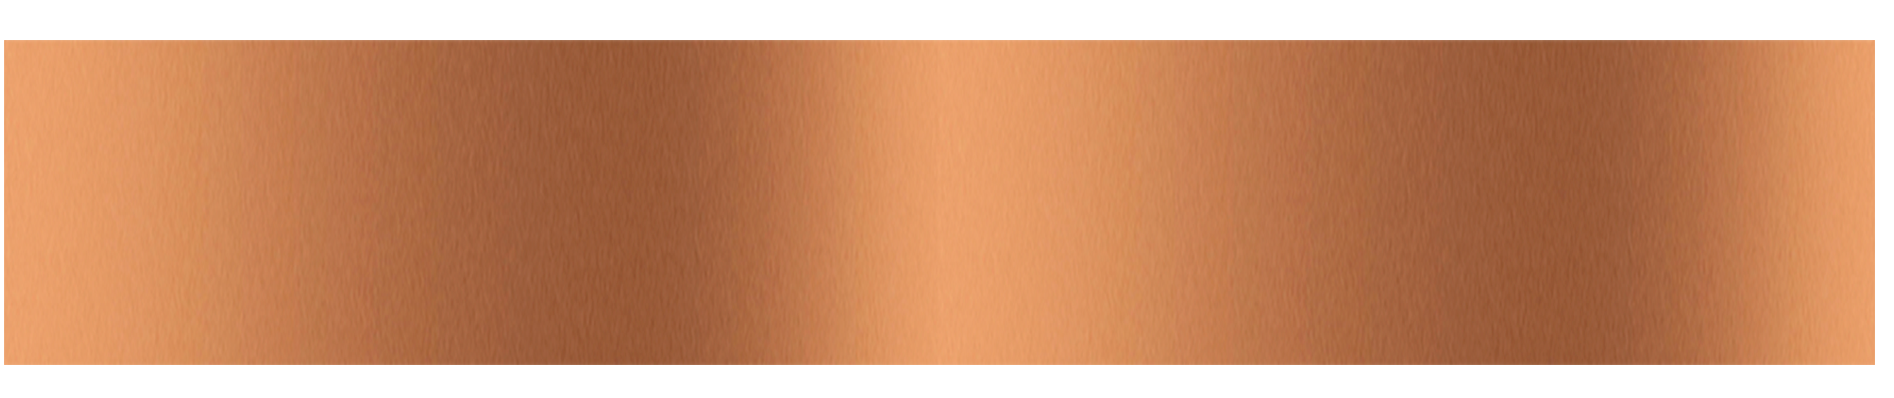
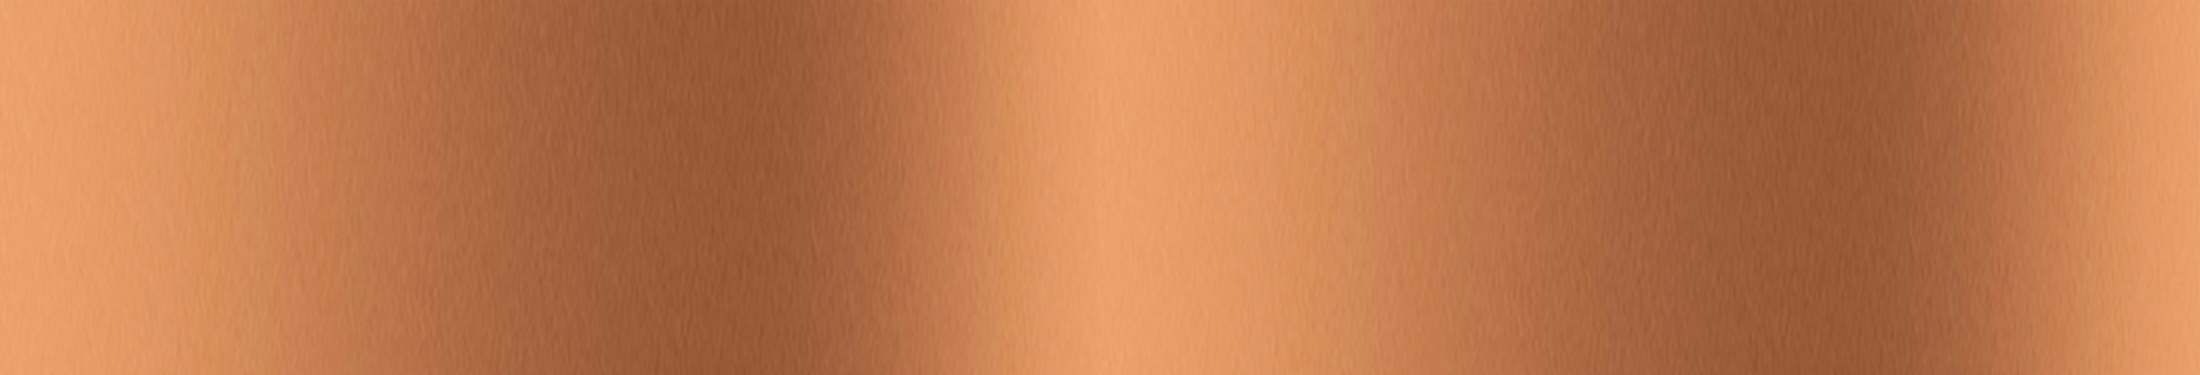
header - fondo se vea en resoluciones grandes

Changed region(s): [[0.0, 0.0, 1.0, 1.0]]

diff --git a/web/webAssets/css/site-extend.css b/web/webAssets/css/site-extend.css
@@ -17,7 +17,7 @@
  * -----------------------------------------------------------------------------
  * 2.0 - Basicos
  * -----------------------------------------------------------------------------
- */body{background-color:#eee;background-color:#f5f5f5;font-family:"Signika",-apple-system,Helvetica Neue,Helvetica,Arial,sans-serif;font-size:16px;font-weight:300;color:#3F3E4C}a{color:#008BFF;font-family:"Signika",-apple-system,Helvetica Neue,Helvetica,Arial,sans-serif;font-size:16px;text-decoration:none}a:active,a:focus,a:hover{color:#006fcc;text-decoration:none}h1,h2,h3,h4,h5,h6{font-family:"Signika",-apple-system,Helvetica Neue,Helvetica,Arial,sans-serif}.ladda-button{background-color:transparent;border-radius:0;padding:0}.btn-primary.ladda-button[disabled],.btn-primary.ladda-button[disabled]:hover,.btn-primary.ladda-button[data-loading],.btn-primary.ladda-button[data-loading]:hover{background-color:#FFF}.btn-info.ladda-button[disabled],.btn-info.ladda-button[disabled]:hover,.btn-info.ladda-button[data-loading],.btn-info.ladda-button[data-loading]:hover{background-color:#00D0F8}.btn-success.ladda-button[disabled],.btn-success.ladda-button[disabled]:hover,.btn-success.ladda-button[data-loading],.btn-success.ladda-button[data-loading]:hover{background-color:#39b54a}.btn-warning.ladda-button[disabled],.btn-warning.ladda-button[disabled]:hover,.btn-warning.ladda-button[data-loading],.btn-warning.ladda-button[data-loading]:hover{background-color:#FFF55B}.btn{display:inline-block;text-align:center;white-space:nowrap;vertical-align:middle;-webkit-user-select:none;-moz-user-select:none;-ms-user-select:none;user-select:none;border:1px solid transparent;padding:.375rem .75rem;line-height:1.5;font-size:1rem;font-weight:400;letter-spacing:1px;border-radius:.25rem;transition:color .15s ease-in-out,background-color .15s ease-in-out,border-color .15s ease-in-out,box-shadow .15s ease-in-out}.btn-primary{border-color:#FFF;background-color:#FFF}.btn-primary:active,.btn-primary:focus,.btn-primary:hover,.btn-primary:active,.btn-primary:active:focus,.btn-primary:active:hover,.btn-primary:disabled,.btn-primary[disabled]:hover,.btn-primary[disabled]:focus,.btn-primary:hover,.btn-primary:focus,.btn-primary:not(:disabled):not(.disabled):active,.btn-primary:not(:disabled):not(.disabled).active{border-color:#e6e6e6;background-color:#e6e6e6;box-shadow:0 0 0 .1rem rgba(255,255,255,0.1)}.btn-secondary{border-color:#000;background-color:#000;color:#FFF}.btn-secondary:active,.btn-secondary:focus,.btn-secondary:hover,.btn-secondary:active,.btn-secondary:active:focus,.btn-secondary:active:hover,.btn-secondary:disabled,.btn-secondary[disabled]:hover,.btn-secondary[disabled]:focus,.btn-secondary:hover,.btn-secondary:focus{border-color:#000;background-color:#000;box-shadow:0 0 0 .1rem rgba(0,0,0,0.1);color:#FFF}.btn-outline-primary{border-color:#DDD;color:#DDD}.btn-outline-primary:active,.btn-outline-primary:focus,.btn-outline-primary:hover,.btn-outline-primary:active,.btn-outline-primary:active:focus,.btn-outline-primary:active:hover,.btn-outline-primary:disabled,.btn-outline-primary[disabled]:hover,.btn-outline-primary[disabled]:focus,.btn-outline-primary:hover,.btn-outline-primary:focus{box-shadow:0 0 0 .1rem rgba(255,255,255,0.1)}.btn-facebook{border-color:#5272B3;background-color:#5272B3}.btn-facebook:active,.btn-facebook:focus,.btn-facebook:hover,.btn-facebook:active,.btn-facebook:active:focus,.btn-facebook:active:hover,.btn-facebook:disabled,.btn-facebook[disabled]:hover,.btn-facebook[disabled]:focus,.btn-facebook:hover,.btn-facebook:focus,.btn-facebook:not(:disabled):not(.disabled):active,.btn-facebook:not(:disabled):not(.disabled).active{border-color:#405b92;background-color:#405b92;box-shadow:none}.btn-warning{border-color:#FFF;background-color:#FFF}.btn-warning:active,.btn-warning:focus,.btn-warning:hover,.btn-warning:active,.btn-warning:active:focus,.btn-warning:active:hover,.btn-warning:disabled,.btn-warning[disabled]:hover,.btn-warning[disabled]:focus,.btn-warning:hover,.btn-warning:focus{border-color:#e6e6e6;background-color:#e6e6e6;box-shadow:0 0 0 .1rem rgba(255,255,255,0.1)}.btn-error{border-color:#FF6C4C;background-color:#FF6C4C}.btn-error:active,.btn-error:focus,.btn-error:hover,.btn-error:active,.btn-error:active:focus,.btn-error:active:hover,.btn-error:disabled,.btn-error[disabled]:hover,.btn-error[disabled]:focus,.btn-error:hover,.btn-error:focus{border-color:#ff4219;background-color:#ff4219;box-shadow:0 0 0 .1rem rgba(255,108,76,0.1)}.btn-success{border-color:#39b54a;background-color:#39b54a}.btn-success:active,.btn-success:focus,.btn-success:hover,.btn-success:active,.btn-success:active:focus,.btn-success:active:hover,.btn-success:disabled,.btn-success[disabled]:hover,.btn-success[disabled]:focus,.btn-success:hover,.btn-success:focus{border-color:#2d8e3a;background-color:#2d8e3a;box-shadow:0 0 0 .1rem rgba(57,181,74,0.1)}.btn-info{border-color:#00D0F8;background-color:#00D0F8}.btn-info:active,.btn-info:focus,.btn-info:hover,.btn-info:active,.btn-info:active:focus,.btn-info:active:hover,.btn-info:disabled,.btn-info[disabled]:hover,.btn-info[disabled]:focus,.btn-info:hover,.btn-info:focus{border-color:#00a5c5;background-color:#00a5c5;box-shadow:0 0 0 .1rem rgba(0,208,248,0.1)}.btn-outline-default{background-color:transparent;border-color:#3F3E4C;color:#3F3E4C}.btn-outline-default:active,.btn-outline-default:focus,.btn-outline-default:hover,.btn-outline-default:active,.btn-outline-default:active:focus,.btn-outline-default:active:hover,.btn-outline-default:disabled,.btn-outline-default[disabled]:hover,.btn-outline-default[disabled]:focus,.btn-outline-default:hover,.btn-outline-default:focus{border-color:#282730;color:#282730;box-shadow:none}.page-login-v3 form .form-material label{color:#88869d}.form-material .form-control:-webkit-autofill ~ .floating-label{top:-1.3rem}.form-material .form-control ~ .floating-label{padding:0 10px}.form-material .form-control.focus ~ .floating-label,.form-material .form-control:focus ~ .floating-label{color:#FFF;top:-1.3rem}.form-material.form-group.has-danger .form-control.focus ~ .floating-label,.form-material.form-group.has-danger .form-control:focus ~ .floating-label,.form-material.form-group.has-danger .form-control:not(.empty) ~ .floating-label{color:#FF6C4C;top:-1.3rem}.form-material.form-group.has-success .form-control.focus ~ .floating-label,.form-material.form-group.has-success .form-control:focus ~ .floating-label,.form-material.form-group.has-success .form-control:not(.empty) ~ .floating-label{color:#FFF;top:-1.3rem}.form-material .form-control,.form-material .form-control.focus,.form-material .form-control:focus{background-image:linear-gradient(primary, primary),linear-gradient(#FE9093, #FE9093)}.form-material.form-group.has-success .form-control.focus,.form-material.form-group.has-success .form-control:focus,.form-material.form-group.has-success .form-control:not(.empty){background-image:linear-gradient(primary, primary),linear-gradient(#FE9093, #FE9093)}.form-control{color:#7a7891}.page-login-v3:before{background-image:url("../images/bkgd.jpg");background-position:50%;background-repeat:no-repeat;background-size:cover}.login .brand .brand-img{height:100px;margin-bottom:20px}.login form .form-group .help-block.help-block-error{color:#FF6C4C;font-size:.9rem;text-align:left}.navbar-inverse{background-color:#FFF}.navbar-inverse .navbar-collapse,.navbar-inverse .navbar-form{border-color:#FFF}.site-footer .site-footer-legal img{height:30px}.site-footer .site-footer-right img{height:30px}.page-copyright .social a img{height:30px}.usuarios-create .user-file{cursor:pointer;display:block;height:200px;margin:0 auto;max-width:80%;width:200px}.usuarios-actualizar .user-file{cursor:pointer;display:block;height:200px;margin:0 auto;max-width:80%;width:200px}.loader-overlay{background-color:#FFF;background-image:url(../images/logo-latingal-boutique.png);background-position:50%;background-repeat:no-repeat;background-size:100px}.animsition-loading{background-color:#999;border-left:5px solid #FFF}.modal-backdrop{background-color:rgba(255,0,0,0.2);position:absolute;z-index:9906}.modal{position:fixed;z-index:9999}.modal .modal-dialog .modal-header button.close{position:absolute;right:24px;top:16px}.summary{color:#3F3E4C;display:flex;font-size:.95rem;font-weight:300;justify-content:flex-end;margin-bottom:8px;padding:4px 8px}.summary b{color:#FFF;font-weight:400;margin:0 8px}.pagination{display:flex;justify-content:flex-end}.pagination li{display:flex}.pagination li a,.pagination li span,.pagination li .page-link{align-items:center;background-color:transparent;border:1px solid rgba(255,255,255,0.4);display:flex;font-weight:400;justify-content:center;margin:0 2px;padding:4px 2px;color:#FFF;text-decoration:none;width:40px}.pagination li a:hover,.pagination li span:hover,.pagination li .page-link:hover{background-color:rgba(255,255,255,0.16);border-color:rgba(255,255,255,0.16);color:#FFF}.pagination li.prev a,.pagination li.next a{color:#FFF}.pagination li.disabled span{background-color:rgba(255,255,255,0.16);border-color:rgba(255,255,255,0.16);color:rgba(255,255,255,0.4)}.pagination li.active a{background-color:#FFF;border-color:#FFF;color:#FFF}.pagination li.active a:hover{background-color:rgba(255,255,255,0.25);border-color:rgba(255,255,255,0.65);color:#FFF}.latin-message{background-color:rgba(255,255,255,0.9);bottom:0;display:none;height:100vh;left:0;position:fixed;right:0;top:0;width:100%;z-index:9999}.latin-message .latin-message-cont{align-items:center;display:flex;flex-direction:column;height:100%;justify-content:center;width:100%}.latin-message .latin-message-cont h3{display:block;color:#FFF;text-align:center;width:100%}.latin-message .latin-message-cont img{max-width:90%;width:80px}.tooltip.bs-tether-element-attached-bottom .tooltip-inner,.tooltip.tooltip-top .tooltip-inner{background-color:#e6e6e6}.tooltip.bs-tether-element-attached-bottom .tooltip-inner::before,.tooltip.tooltip-top .tooltip-inner::before{border-top-color:#e6e6e6}.tooltip.tooltip-2.tooltip-primary{display:block !important}.tooltip.tooltip-2.tooltip-primary .arrow{background-color:#e6e6e6}.tooltip.tooltip-2.tooltip-primary .tooltip-inner{background-color:#e6e6e6}.tooltip.tooltip-2.tooltip-primary .tooltip-inner:before{border-top-color:#e6e6e6}.tooltip.tooltip-2.tooltip-success{display:block !important}.tooltip.tooltip-2.tooltip-success .arrow{background-color:#2d8e3a}.tooltip.tooltip-2.tooltip-success .tooltip-inner{background-color:#2d8e3a}.tooltip.tooltip-2.tooltip-success .tooltip-inner:before{border-top-color:#2d8e3a}.tooltip.tooltip-2.tooltip-danger{display:block !important}.tooltip.tooltip-2.tooltip-danger .arrow{background-color:#ff4219}.tooltip.tooltip-2.tooltip-danger .tooltip-inner{background-color:#ff4219}.tooltip.tooltip-2.tooltip-danger .tooltip-inner:before{border-top-color:#ff4219}.tooltip.tooltip-2.tooltip-info{display:block !important}.tooltip.tooltip-2.tooltip-info .arrow{background-color:#00a5c5}.tooltip.tooltip-2.tooltip-info .tooltip-inner{background-color:#00a5c5}.tooltip.tooltip-2.tooltip-info .tooltip-inner:before{border-top-color:#00a5c5}.tooltip.tooltip-2.tooltip-warning{display:block !important}.tooltip.tooltip-2.tooltip-warning .arrow{background-color:#fff228}.tooltip.tooltip-2.tooltip-warning .tooltip-inner{background-color:#fff228}.tooltip.tooltip-2.tooltip-warning .tooltip-inner:before{border-top-color:#fff228}.progress .progress-bar{background-color:#FE9093}.fc .fc-button-group .fc-prev-button.fc-button,.fc .fc-button-group .fc-next-button.fc-button{border-radius:0;padding:0}.fc .fc-button-group .fc-prev-button.fc-button span.fc-icon,.fc .fc-button-group .fc-next-button.fc-button span.fc-icon{height:32px;line-height:32px;top:0;width:32px}.fc .fc-button-group .fc-prev-button.fc-button span.fc-icon::after,.fc .fc-button-group .fc-next-button.fc-button span.fc-icon::after{font-family:"Web Icons";font-size:24px;font-weight:normal;text-shadow:none;text-rendering:auto;top:0;-moz-osx-font-smoothing:grayscale}.fc .fc-button-group .fc-prev-button.fc-button:hover,.fc .fc-button-group .fc-prev-button.fc-button:focus,.fc .fc-button-group .fc-next-button.fc-button:hover,.fc .fc-button-group .fc-next-button.fc-button:focus{background-color:#FFF;color:#FFF}.fc .fc-button-group .fc-prev-button.fc-button{border-top-left-radius:4px;border-bottom-left-radius:4px}.fc .fc-button-group .fc-prev-button.fc-button span.fc-icon::after{content:""}.fc .fc-button-group .fc-next-button.fc-button{border-top-right-radius:4px;border-bottom-right-radius:4px}.fc .fc-button-group .fc-next-button.fc-button span.fc-icon::after{content:""}.fc .fc-toolbar h2{color:#FFF;font-size:2.5rem !important;font-weight:300 !important}.fc-unthemed .fc-today{background-color:rgba(255,255,255,0.12) !important}.fc td.fc-widget-header{background-color:#FE9093;padding-bottom:0 !important;padding-top:0 !important}.fc td.fc-widget-header .fc-row table thead tr th span{color:#FFF;font-family:"Signika",-apple-system,Helvetica Neue,Helvetica,Arial,sans-serif;font-size:1.25rem !important;font-weight:300 !important}.fc-time-grid-container .fc-time-grid .fc-slats table tbody tr td.fc-axis{padding:4px 4px}.fc-time-grid-container .fc-time-grid .fc-slats table tbody tr td.fc-axis span{color:#FFF}.fc-unthemed .fc-day-header.fc-widget-header,.fc-unthemed .fc-today{padding:16px 4px !important}.fc-event .fc-bg{background:transparent;background-color:transparent;opacity:.025 !important}.fc-time-grid-event.fc-v-event.fc-event{border-color:transparent}.datepicker.datepicker-dropdown.dropdown-menu,.datepicker.datepicker-dropdown.dropdown-menu,.datepicker-orient-left.datepicker-orient-top{z-index:1951 !important}.clockpicker-popover,.popover.clockpicker-popover{z-index:1952 !important}.clockpicker-popover .popover-title .text-primary,.popover.clockpicker-popover .popover-title .text-primary{color:#FFF !important}.clockpicker-popover .popover-content .clockpicker-tick.active,.popover.clockpicker-popover .popover-content .clockpicker-tick.active{background-color:rgba(254,144,147,0.7) !important;color:#FFF !important}.clockpicker-popover .popover-content .clockpicker-tick:hover,.popover.clockpicker-popover .popover-content .clockpicker-tick:hover{background-color:rgba(255,255,255,0.3) !important}.clockpicker-popover .popover-content .clockpicker-canvas line,.popover.clockpicker-popover .popover-content .clockpicker-canvas line{stroke:#FFF !important}.clockpicker-popover .popover-content .clockpicker-canvas-bearing,.clockpicker-popover .popover-content .clockpicker-canvas-fg,.popover.clockpicker-popover .popover-content .clockpicker-canvas-bearing,.popover.clockpicker-popover .popover-content .clockpicker-canvas-fg{fill:#FFF !important}.datepicker table tr td.active:active,.datepicker table tr td.active.highlighted:active,.datepicker table tr td.active.active,.datepicker table tr td.active.highlighted.active{background-color:#FE9093 !important;border-color:#FE9093 !important}.datepicker table tr td span.active:active,.datepicker table tr td span.active:hover:active,.datepicker table tr td span.active.disabled:active,.datepicker table tr td span.active.disabled:hover:active,.datepicker table tr td span.active.active,.datepicker table tr td span.active:hover.active,.datepicker table tr td span.active.disabled.active,.datepicker table tr td span.active.disabled:hover.active{background-color:#FE9093 !important;border-color:#FE9093 !important}.datepicker table tr td.old,.datepicker table tr td.new{background-color:#EEE;border-radius:0}.fc-time-grid-container,.fc-time-grid{height:auto !important;overflow:auto !important}.select2.select2-container:active,.select2.select2-container:hover,.select2.select2-container:focus{outline:none}.select2-container--krajee .select2-selection{border-color:#EEE !important;box-shadow:none !important}.select2-container--krajee.select2-container--open .select2-selection,.select2-container--krajee.select2-container--open .select2-selection:focus{border-color:#AAA !important;box-shadow:none !important}.select2-container--krajee .select2-selection--single .select2-selection__arrow{border-left-color:#EEE !important}.select2-container--krajee .select2-dropdown{border-color:#AAA !important}.select2-dropdown{background-color:#EEE !important;border-color:purple !important}.select2-container--krajee .select2-search--dropdown .select2-search__field{background-color:#FFF !important;background-position:right 10px top 10px;padding:4px 8px}.select2-container--krajee .select2-results__option[aria-selected]{background-color:#FFF !important;color:#3F3E4C !important;margin-left:0 !important}.select2-container--krajee .select2-results__option b{margin-left:0 !important}.select2-container--krajee .select2-results__option--highlighted[aria-selected]{background-color:#FE9093 !important;color:#FFF !important}.select2-container--krajee li.select2-results__option{background-color:#AAA !important;color:#FFF !important}.select2-container--krajee .select2-selection--single .select2-selection__clear{right:26px !important;top:.1rem !important}.select2-container--krajee .select2-selection--single{padding:6px 40px 6px 6px !important}.checkbox-custom label::before{background-color:#BBB;border-color:#BBB}.checkbox-primary input[type="radio"]:checked+input[type="hidden"]+label::before,.checkbox-primary input[type="radio"]:checked+label::before,.checkbox-primary input[type="checkbox"]:checked+input[type="hidden"]+label::before,.checkbox-primary input[type="checkbox"]:checked+label::before{background-color:#FE9093;border-color:#FE9093}.duracell-page{padding:0 !important}.duracell-page .page{background-color:#000}.duracell-page .page .page-content{padding:0 !important}.nav-duracell{align-items:center;background-color:#000;background-image:url(../images/tira.png);background-position:50%;background-repeat:no-repeat;background-size:inherit;display:flex;padding:0 32px;width:100%}.nav-duracell.nav-left{height:90px;justify-content:flex-start}.nav-duracell.nav-right{height:90px;justify-content:flex-end}.nav-duracell h1{margin:0}.nav-duracell h1 img{height:40px}/*!
+ */body{background-color:#eee;background-color:#f5f5f5;font-family:"Signika",-apple-system,Helvetica Neue,Helvetica,Arial,sans-serif;font-size:16px;font-weight:300;color:#3F3E4C}a{color:#008BFF;font-family:"Signika",-apple-system,Helvetica Neue,Helvetica,Arial,sans-serif;font-size:16px;text-decoration:none}a:active,a:focus,a:hover{color:#006fcc;text-decoration:none}h1,h2,h3,h4,h5,h6{font-family:"Signika",-apple-system,Helvetica Neue,Helvetica,Arial,sans-serif}.ladda-button{background-color:transparent;border-radius:0;padding:0}.btn-primary.ladda-button[disabled],.btn-primary.ladda-button[disabled]:hover,.btn-primary.ladda-button[data-loading],.btn-primary.ladda-button[data-loading]:hover{background-color:#FFF}.btn-info.ladda-button[disabled],.btn-info.ladda-button[disabled]:hover,.btn-info.ladda-button[data-loading],.btn-info.ladda-button[data-loading]:hover{background-color:#00D0F8}.btn-success.ladda-button[disabled],.btn-success.ladda-button[disabled]:hover,.btn-success.ladda-button[data-loading],.btn-success.ladda-button[data-loading]:hover{background-color:#39b54a}.btn-warning.ladda-button[disabled],.btn-warning.ladda-button[disabled]:hover,.btn-warning.ladda-button[data-loading],.btn-warning.ladda-button[data-loading]:hover{background-color:#FFF55B}.btn{display:inline-block;text-align:center;white-space:nowrap;vertical-align:middle;-webkit-user-select:none;-moz-user-select:none;-ms-user-select:none;user-select:none;border:1px solid transparent;padding:.375rem .75rem;line-height:1.5;font-size:1rem;font-weight:400;letter-spacing:1px;border-radius:.25rem;transition:color .15s ease-in-out,background-color .15s ease-in-out,border-color .15s ease-in-out,box-shadow .15s ease-in-out}.btn-primary{border-color:#FFF;background-color:#FFF}.btn-primary:active,.btn-primary:focus,.btn-primary:hover,.btn-primary:active,.btn-primary:active:focus,.btn-primary:active:hover,.btn-primary:disabled,.btn-primary[disabled]:hover,.btn-primary[disabled]:focus,.btn-primary:hover,.btn-primary:focus,.btn-primary:not(:disabled):not(.disabled):active,.btn-primary:not(:disabled):not(.disabled).active{border-color:#e6e6e6;background-color:#e6e6e6;box-shadow:0 0 0 .1rem rgba(255,255,255,0.1)}.btn-secondary{border-color:#000;background-color:#000;color:#FFF}.btn-secondary:active,.btn-secondary:focus,.btn-secondary:hover,.btn-secondary:active,.btn-secondary:active:focus,.btn-secondary:active:hover,.btn-secondary:disabled,.btn-secondary[disabled]:hover,.btn-secondary[disabled]:focus,.btn-secondary:hover,.btn-secondary:focus{border-color:#000;background-color:#000;box-shadow:0 0 0 .1rem rgba(0,0,0,0.1);color:#FFF}.btn-outline-primary{border-color:#DDD;color:#DDD}.btn-outline-primary:active,.btn-outline-primary:focus,.btn-outline-primary:hover,.btn-outline-primary:active,.btn-outline-primary:active:focus,.btn-outline-primary:active:hover,.btn-outline-primary:disabled,.btn-outline-primary[disabled]:hover,.btn-outline-primary[disabled]:focus,.btn-outline-primary:hover,.btn-outline-primary:focus{box-shadow:0 0 0 .1rem rgba(255,255,255,0.1)}.btn-facebook{border-color:#5272B3;background-color:#5272B3}.btn-facebook:active,.btn-facebook:focus,.btn-facebook:hover,.btn-facebook:active,.btn-facebook:active:focus,.btn-facebook:active:hover,.btn-facebook:disabled,.btn-facebook[disabled]:hover,.btn-facebook[disabled]:focus,.btn-facebook:hover,.btn-facebook:focus,.btn-facebook:not(:disabled):not(.disabled):active,.btn-facebook:not(:disabled):not(.disabled).active{border-color:#405b92;background-color:#405b92;box-shadow:none}.btn-warning{border-color:#FFF;background-color:#FFF}.btn-warning:active,.btn-warning:focus,.btn-warning:hover,.btn-warning:active,.btn-warning:active:focus,.btn-warning:active:hover,.btn-warning:disabled,.btn-warning[disabled]:hover,.btn-warning[disabled]:focus,.btn-warning:hover,.btn-warning:focus{border-color:#e6e6e6;background-color:#e6e6e6;box-shadow:0 0 0 .1rem rgba(255,255,255,0.1)}.btn-error{border-color:#FF6C4C;background-color:#FF6C4C}.btn-error:active,.btn-error:focus,.btn-error:hover,.btn-error:active,.btn-error:active:focus,.btn-error:active:hover,.btn-error:disabled,.btn-error[disabled]:hover,.btn-error[disabled]:focus,.btn-error:hover,.btn-error:focus{border-color:#ff4219;background-color:#ff4219;box-shadow:0 0 0 .1rem rgba(255,108,76,0.1)}.btn-success{border-color:#39b54a;background-color:#39b54a}.btn-success:active,.btn-success:focus,.btn-success:hover,.btn-success:active,.btn-success:active:focus,.btn-success:active:hover,.btn-success:disabled,.btn-success[disabled]:hover,.btn-success[disabled]:focus,.btn-success:hover,.btn-success:focus{border-color:#2d8e3a;background-color:#2d8e3a;box-shadow:0 0 0 .1rem rgba(57,181,74,0.1)}.btn-info{border-color:#00D0F8;background-color:#00D0F8}.btn-info:active,.btn-info:focus,.btn-info:hover,.btn-info:active,.btn-info:active:focus,.btn-info:active:hover,.btn-info:disabled,.btn-info[disabled]:hover,.btn-info[disabled]:focus,.btn-info:hover,.btn-info:focus{border-color:#00a5c5;background-color:#00a5c5;box-shadow:0 0 0 .1rem rgba(0,208,248,0.1)}.btn-outline-default{background-color:transparent;border-color:#3F3E4C;color:#3F3E4C}.btn-outline-default:active,.btn-outline-default:focus,.btn-outline-default:hover,.btn-outline-default:active,.btn-outline-default:active:focus,.btn-outline-default:active:hover,.btn-outline-default:disabled,.btn-outline-default[disabled]:hover,.btn-outline-default[disabled]:focus,.btn-outline-default:hover,.btn-outline-default:focus{border-color:#282730;color:#282730;box-shadow:none}.page-login-v3 form .form-material label{color:#88869d}.form-material .form-control:-webkit-autofill ~ .floating-label{top:-1.3rem}.form-material .form-control ~ .floating-label{padding:0 10px}.form-material .form-control.focus ~ .floating-label,.form-material .form-control:focus ~ .floating-label{color:#FFF;top:-1.3rem}.form-material.form-group.has-danger .form-control.focus ~ .floating-label,.form-material.form-group.has-danger .form-control:focus ~ .floating-label,.form-material.form-group.has-danger .form-control:not(.empty) ~ .floating-label{color:#FF6C4C;top:-1.3rem}.form-material.form-group.has-success .form-control.focus ~ .floating-label,.form-material.form-group.has-success .form-control:focus ~ .floating-label,.form-material.form-group.has-success .form-control:not(.empty) ~ .floating-label{color:#FFF;top:-1.3rem}.form-material .form-control,.form-material .form-control.focus,.form-material .form-control:focus{background-image:linear-gradient(primary, primary),linear-gradient(#FE9093, #FE9093)}.form-material.form-group.has-success .form-control.focus,.form-material.form-group.has-success .form-control:focus,.form-material.form-group.has-success .form-control:not(.empty){background-image:linear-gradient(primary, primary),linear-gradient(#FE9093, #FE9093)}.form-control{color:#7a7891}.page-login-v3:before{background-image:url("../images/bkgd.jpg");background-position:50%;background-repeat:no-repeat;background-size:cover}.login .brand .brand-img{height:100px;margin-bottom:20px}.login form .form-group .help-block.help-block-error{color:#FF6C4C;font-size:.9rem;text-align:left}.navbar-inverse{background-color:#FFF}.navbar-inverse .navbar-collapse,.navbar-inverse .navbar-form{border-color:#FFF}.site-footer .site-footer-legal img{height:30px}.site-footer .site-footer-right img{height:30px}.page-copyright .social a img{height:30px}.usuarios-create .user-file{cursor:pointer;display:block;height:200px;margin:0 auto;max-width:80%;width:200px}.usuarios-actualizar .user-file{cursor:pointer;display:block;height:200px;margin:0 auto;max-width:80%;width:200px}.loader-overlay{background-color:#FFF;background-image:url(../images/logo-latingal-boutique.png);background-position:50%;background-repeat:no-repeat;background-size:100px}.animsition-loading{background-color:#999;border-left:5px solid #FFF}.modal-backdrop{background-color:rgba(255,0,0,0.2);position:absolute;z-index:9906}.modal{position:fixed;z-index:9999}.modal .modal-dialog .modal-header button.close{position:absolute;right:24px;top:16px}.summary{color:#3F3E4C;display:flex;font-size:.95rem;font-weight:300;justify-content:flex-end;margin-bottom:8px;padding:4px 8px}.summary b{color:#FFF;font-weight:400;margin:0 8px}.pagination{display:flex;justify-content:flex-end}.pagination li{display:flex}.pagination li a,.pagination li span,.pagination li .page-link{align-items:center;background-color:transparent;border:1px solid rgba(255,255,255,0.4);display:flex;font-weight:400;justify-content:center;margin:0 2px;padding:4px 2px;color:#FFF;text-decoration:none;width:40px}.pagination li a:hover,.pagination li span:hover,.pagination li .page-link:hover{background-color:rgba(255,255,255,0.16);border-color:rgba(255,255,255,0.16);color:#FFF}.pagination li.prev a,.pagination li.next a{color:#FFF}.pagination li.disabled span{background-color:rgba(255,255,255,0.16);border-color:rgba(255,255,255,0.16);color:rgba(255,255,255,0.4)}.pagination li.active a{background-color:#FFF;border-color:#FFF;color:#FFF}.pagination li.active a:hover{background-color:rgba(255,255,255,0.25);border-color:rgba(255,255,255,0.65);color:#FFF}.latin-message{background-color:rgba(255,255,255,0.9);bottom:0;display:none;height:100vh;left:0;position:fixed;right:0;top:0;width:100%;z-index:9999}.latin-message .latin-message-cont{align-items:center;display:flex;flex-direction:column;height:100%;justify-content:center;width:100%}.latin-message .latin-message-cont h3{display:block;color:#FFF;text-align:center;width:100%}.latin-message .latin-message-cont img{max-width:90%;width:80px}.tooltip.bs-tether-element-attached-bottom .tooltip-inner,.tooltip.tooltip-top .tooltip-inner{background-color:#e6e6e6}.tooltip.bs-tether-element-attached-bottom .tooltip-inner::before,.tooltip.tooltip-top .tooltip-inner::before{border-top-color:#e6e6e6}.tooltip.tooltip-2.tooltip-primary{display:block !important}.tooltip.tooltip-2.tooltip-primary .arrow{background-color:#e6e6e6}.tooltip.tooltip-2.tooltip-primary .tooltip-inner{background-color:#e6e6e6}.tooltip.tooltip-2.tooltip-primary .tooltip-inner:before{border-top-color:#e6e6e6}.tooltip.tooltip-2.tooltip-success{display:block !important}.tooltip.tooltip-2.tooltip-success .arrow{background-color:#2d8e3a}.tooltip.tooltip-2.tooltip-success .tooltip-inner{background-color:#2d8e3a}.tooltip.tooltip-2.tooltip-success .tooltip-inner:before{border-top-color:#2d8e3a}.tooltip.tooltip-2.tooltip-danger{display:block !important}.tooltip.tooltip-2.tooltip-danger .arrow{background-color:#ff4219}.tooltip.tooltip-2.tooltip-danger .tooltip-inner{background-color:#ff4219}.tooltip.tooltip-2.tooltip-danger .tooltip-inner:before{border-top-color:#ff4219}.tooltip.tooltip-2.tooltip-info{display:block !important}.tooltip.tooltip-2.tooltip-info .arrow{background-color:#00a5c5}.tooltip.tooltip-2.tooltip-info .tooltip-inner{background-color:#00a5c5}.tooltip.tooltip-2.tooltip-info .tooltip-inner:before{border-top-color:#00a5c5}.tooltip.tooltip-2.tooltip-warning{display:block !important}.tooltip.tooltip-2.tooltip-warning .arrow{background-color:#fff228}.tooltip.tooltip-2.tooltip-warning .tooltip-inner{background-color:#fff228}.tooltip.tooltip-2.tooltip-warning .tooltip-inner:before{border-top-color:#fff228}.progress .progress-bar{background-color:#FE9093}.fc .fc-button-group .fc-prev-button.fc-button,.fc .fc-button-group .fc-next-button.fc-button{border-radius:0;padding:0}.fc .fc-button-group .fc-prev-button.fc-button span.fc-icon,.fc .fc-button-group .fc-next-button.fc-button span.fc-icon{height:32px;line-height:32px;top:0;width:32px}.fc .fc-button-group .fc-prev-button.fc-button span.fc-icon::after,.fc .fc-button-group .fc-next-button.fc-button span.fc-icon::after{font-family:"Web Icons";font-size:24px;font-weight:normal;text-shadow:none;text-rendering:auto;top:0;-moz-osx-font-smoothing:grayscale}.fc .fc-button-group .fc-prev-button.fc-button:hover,.fc .fc-button-group .fc-prev-button.fc-button:focus,.fc .fc-button-group .fc-next-button.fc-button:hover,.fc .fc-button-group .fc-next-button.fc-button:focus{background-color:#FFF;color:#FFF}.fc .fc-button-group .fc-prev-button.fc-button{border-top-left-radius:4px;border-bottom-left-radius:4px}.fc .fc-button-group .fc-prev-button.fc-button span.fc-icon::after{content:""}.fc .fc-button-group .fc-next-button.fc-button{border-top-right-radius:4px;border-bottom-right-radius:4px}.fc .fc-button-group .fc-next-button.fc-button span.fc-icon::after{content:""}.fc .fc-toolbar h2{color:#FFF;font-size:2.5rem !important;font-weight:300 !important}.fc-unthemed .fc-today{background-color:rgba(255,255,255,0.12) !important}.fc td.fc-widget-header{background-color:#FE9093;padding-bottom:0 !important;padding-top:0 !important}.fc td.fc-widget-header .fc-row table thead tr th span{color:#FFF;font-family:"Signika",-apple-system,Helvetica Neue,Helvetica,Arial,sans-serif;font-size:1.25rem !important;font-weight:300 !important}.fc-time-grid-container .fc-time-grid .fc-slats table tbody tr td.fc-axis{padding:4px 4px}.fc-time-grid-container .fc-time-grid .fc-slats table tbody tr td.fc-axis span{color:#FFF}.fc-unthemed .fc-day-header.fc-widget-header,.fc-unthemed .fc-today{padding:16px 4px !important}.fc-event .fc-bg{background:transparent;background-color:transparent;opacity:.025 !important}.fc-time-grid-event.fc-v-event.fc-event{border-color:transparent}.datepicker.datepicker-dropdown.dropdown-menu,.datepicker.datepicker-dropdown.dropdown-menu,.datepicker-orient-left.datepicker-orient-top{z-index:1951 !important}.clockpicker-popover,.popover.clockpicker-popover{z-index:1952 !important}.clockpicker-popover .popover-title .text-primary,.popover.clockpicker-popover .popover-title .text-primary{color:#FFF !important}.clockpicker-popover .popover-content .clockpicker-tick.active,.popover.clockpicker-popover .popover-content .clockpicker-tick.active{background-color:rgba(254,144,147,0.7) !important;color:#FFF !important}.clockpicker-popover .popover-content .clockpicker-tick:hover,.popover.clockpicker-popover .popover-content .clockpicker-tick:hover{background-color:rgba(255,255,255,0.3) !important}.clockpicker-popover .popover-content .clockpicker-canvas line,.popover.clockpicker-popover .popover-content .clockpicker-canvas line{stroke:#FFF !important}.clockpicker-popover .popover-content .clockpicker-canvas-bearing,.clockpicker-popover .popover-content .clockpicker-canvas-fg,.popover.clockpicker-popover .popover-content .clockpicker-canvas-bearing,.popover.clockpicker-popover .popover-content .clockpicker-canvas-fg{fill:#FFF !important}.datepicker table tr td.active:active,.datepicker table tr td.active.highlighted:active,.datepicker table tr td.active.active,.datepicker table tr td.active.highlighted.active{background-color:#FE9093 !important;border-color:#FE9093 !important}.datepicker table tr td span.active:active,.datepicker table tr td span.active:hover:active,.datepicker table tr td span.active.disabled:active,.datepicker table tr td span.active.disabled:hover:active,.datepicker table tr td span.active.active,.datepicker table tr td span.active:hover.active,.datepicker table tr td span.active.disabled.active,.datepicker table tr td span.active.disabled:hover.active{background-color:#FE9093 !important;border-color:#FE9093 !important}.datepicker table tr td.old,.datepicker table tr td.new{background-color:#EEE;border-radius:0}.fc-time-grid-container,.fc-time-grid{height:auto !important;overflow:auto !important}.select2.select2-container:active,.select2.select2-container:hover,.select2.select2-container:focus{outline:none}.select2-container--krajee .select2-selection{border-color:#EEE !important;box-shadow:none !important}.select2-container--krajee.select2-container--open .select2-selection,.select2-container--krajee.select2-container--open .select2-selection:focus{border-color:#AAA !important;box-shadow:none !important}.select2-container--krajee .select2-selection--single .select2-selection__arrow{border-left-color:#EEE !important}.select2-container--krajee .select2-dropdown{border-color:#AAA !important}.select2-dropdown{background-color:#EEE !important;border-color:purple !important}.select2-container--krajee .select2-search--dropdown .select2-search__field{background-color:#FFF !important;background-position:right 10px top 10px;padding:4px 8px}.select2-container--krajee .select2-results__option[aria-selected]{background-color:#FFF !important;color:#3F3E4C !important;margin-left:0 !important}.select2-container--krajee .select2-results__option b{margin-left:0 !important}.select2-container--krajee .select2-results__option--highlighted[aria-selected]{background-color:#FE9093 !important;color:#FFF !important}.select2-container--krajee li.select2-results__option{background-color:#AAA !important;color:#FFF !important}.select2-container--krajee .select2-selection--single .select2-selection__clear{right:26px !important;top:.1rem !important}.select2-container--krajee .select2-selection--single{padding:6px 40px 6px 6px !important}.checkbox-custom label::before{background-color:#BBB;border-color:#BBB}.checkbox-primary input[type="radio"]:checked+input[type="hidden"]+label::before,.checkbox-primary input[type="radio"]:checked+label::before,.checkbox-primary input[type="checkbox"]:checked+input[type="hidden"]+label::before,.checkbox-primary input[type="checkbox"]:checked+label::before{background-color:#FE9093;border-color:#FE9093}.duracell-page{padding:0 !important}.duracell-page .page{background-color:#000}.duracell-page .page .page-content{padding:0 !important}.nav-duracell{align-items:center;background-color:#000;background-image:url(../images/tira.png);background-position:50%;background-repeat:repeat;background-size:inherit;display:flex;padding:0 32px;width:100%}.nav-duracell.nav-left{height:90px;justify-content:flex-start}.nav-duracell.nav-right{height:90px;justify-content:flex-end}.nav-duracell h1{margin:0}.nav-duracell h1 img{height:40px}/*!
  * --------------------------
  * Login
  * --------------------------

diff --git a/web/webAssets/sass/_basic.sass b/web/webAssets/sass/_basic.sass
@@ -839,7 +839,7 @@ h6
 	background-color: $black
 	background-image: url(../images/tira.png)
 	background-position: 50%
-	background-repeat: no-repeat
+	background-repeat: repeat
 	background-size: inherit
 	display: flex
 	padding: 0 32px
